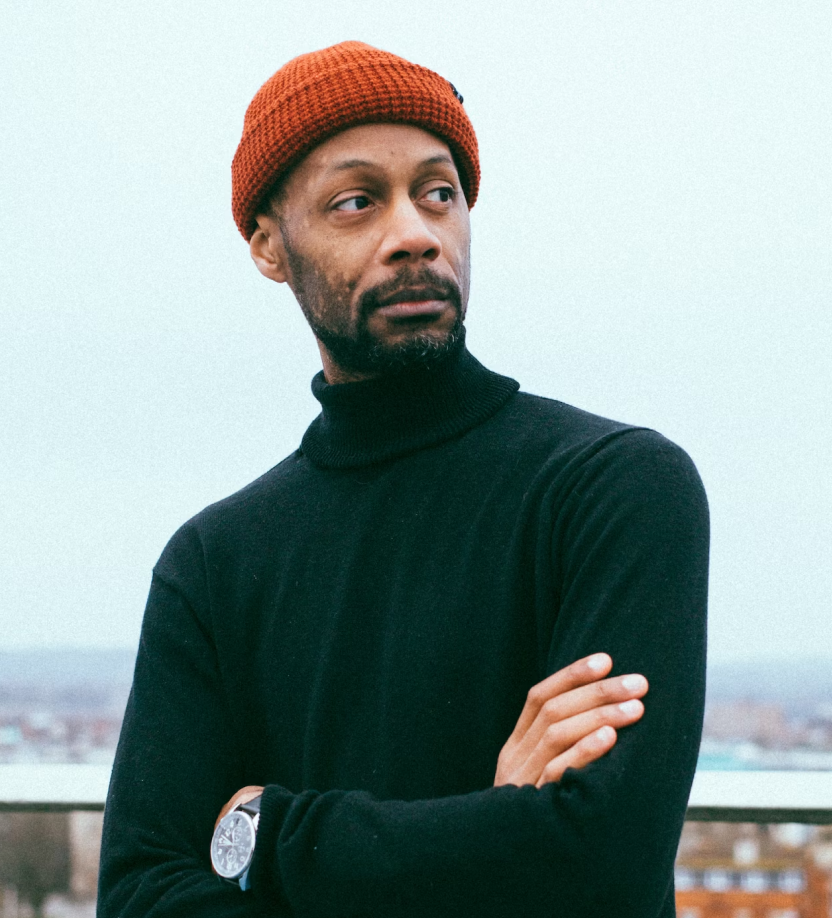
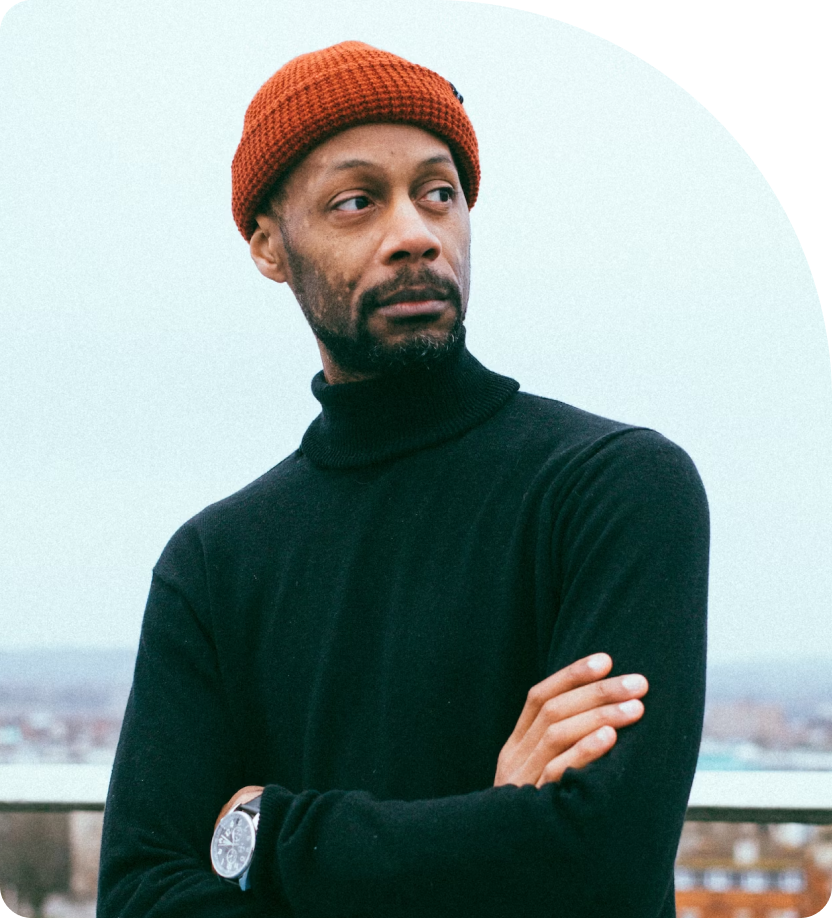
create mobile styles for header and about sections

diff --git a/src/index.html b/src/index.html
@@ -12,13 +12,17 @@
         rel="stylesheet">
 </head>
 
-<body class="font-dmsans">
-    <main>
-        <header>
-            <img class="w-10 h-10" src="./images/star.svg" alt="" />
-            <p>Michał Stryjski</p>
-            <p>Frontend developer</p>
-            <nav>
+<body class="font-dmsans bg-bg text-white">
+    <main class="px-4">
+        <header class="max-w-ms mx-auto py-6">
+            <div class="flex gap-4 items-center">
+                <img class="w-10 h-10" src="./images/star.svg" alt="" />
+                <div>
+                    <p class="text-xl font-bold text-accent">Michał Stryjski</p>
+                    <p class="text-white opacity-40 uppercase text-xs tracking-wider">Frontend developer</p>
+                </div>
+            </div>
+            <nav class="hidden">
                 <ul>
                     <li><a href="#about">About</a></li>
                     <li><a href="#skills">Skills</a></li>
@@ -28,66 +32,79 @@
                 </ul>
             </nav>
         </header>
-        <section id="about">
-            <h1>My name is Michał and I’m an aspiring Frontend developer.</h1>
-            <p>You might be interested in checking the list of my skills. Don’t forget to have a glimpse at my projects.
-                I’m looking for a new challenges so if you have one - contact me 😊</p>
-            <a href="#contact">Get in touch</a>
-            <a href="#skills">Get to know me</a>
-            <img src="./images/michal.png" class="w-44 h-44" alt="" />
+        <section id="about" class="max-w-ms mx-auto py-6 mb-20">
+            <img src="./images/michal.png" class="w-full mb-5" alt="" />
+            <h1 class="font-bold text-2xl tracking-tight mb-4">My name is Michał and I'm an aspiring <span
+                    class="text-accent">Frontend developer</span>.</h1>
+            <p class="text-gray-400 mb-8">You might be interested in checking the list of my <a href="#skills"
+                    class="text-white">skills</a>. Don't forget to have a glimpse at my <a href="#projects"
+                    class="text-white">projects</a>.
+                I'm looking for a new challenges so if you have one - <a href="#contact" class="text-white">contact
+                    me</a>😊</p>
+            <div class="flex flex-col items-start gap-4">
+                <a href="#contact"
+                    class="bg-accent text-bg flex gap-3 py-2  px-4 items-center font-bold text-xl rounded-[0.625rem]"><img
+                        src="./images/chat.svg" alt="chat icon">Get in touch</a>
+                <a href="#about"
+                    class="bg-bg text-accent flex gap-3 py-2  px-4 items-center font-bold text-xl rounded-[0.625rem] border-lightGray border-2"><img
+                        src="./images/person-icon.svg" alt="person icon">Get to know me</a>
+            </div>
         </section>
-        <section id="skills">
+        <section id="skills" class="max-w-ms mx-auto py-6">
             <h2>MY SKILSS</h2>
             <p>I've picked up some cool skills along the way, and I'm excited to share them with you. Check out what I
                 can do below!</p>
-        </section>
-        <article>
-            <img src="./images/triangle.svg" class="w-44 h-44" alt="">
-            <h3>Working knowledge</h3>
-            <ul>
-                <li>— Flexbox</li>
-                <li>— Markdown</li>
-                <li>— JS: Local storage</li>
-                <li>— Figma</li>
-                <li>— CSS grid
-                <li>— Forms</li>
-                <li>— JS: DOM manipulations</li>
-                <li>— SASS</li>
-                <li>— Semantic HTML5</li>
-            </ul>
-        </article>
-        <article>
-            <img src="./images/circle.svg" class="w-44 h-44" alt="">
-            <h3>Know something about</h3>
-            <ul>
-                <li>— JavaScript ES6 + features</li>
-                <li>— CSS animations</li>
-                <li> — Working with API</li>
-                <li>— NPM Scripts</li>
-                <li>— PWA</li>
-                <li> — Git</li>
-                <li> — Accessibility</li>
-            </ul>
-        </article>
-        <article>
-            <img src="./images/flower.svg" class="w-44 h-44" alt="">
-            <h3>Want to learn</h3>
-            <ul>
-                <li>— React</li>
-                <li> — Node</li>
-                <li> — Electron</li>
-                <li> — SSR</li>
-                <li> — TypeScript</li>
-                <li> — Gatsby</li>
-                <li> — WebSockets</li>
-            </ul>
-        </article>
-        <section id="projects">
-            <h2>Recent Projects</h2>
-            <p>Since diving into frontend development in 2023, I've brought a range of projects to life. Here's a snapshot of my accomplishments so far.</p>
             <article>
-                <h3>simple-editor</h3><p><img src="./images/smal-star.svg" alt="">27</p>
-                <p>Phasellus dolor. In dui magna, posuere eget, vestibulum et, tempor auctor, justo fringilla mauris sit amet nibh. Suspendisse pulvinar, augue ac venenatis condimentum, sem libero volutpat...</p>
+                <img src="./images/triangle.svg" class="w-44 h-44" alt="">
+                <h3>Working knowledge</h3>
+                <ul>
+                    <li>— Flexbox</li>
+                    <li>— Markdown</li>
+                    <li>— JS: Local storage</li>
+                    <li>— Figma</li>
+                    <li>— CSS grid
+                    <li>— Forms</li>
+                    <li>— JS: DOM manipulations</li>
+                    <li>— SASS</li>
+                    <li>— Semantic HTML5</li>
+                </ul>
+            </article>
+            <article>
+                <img src="./images/circle.svg" class="w-44 h-44" alt="">
+                <h3>Know something about</h3>
+                <ul>
+                    <li>— JavaScript ES6 + features</li>
+                    <li>— CSS animations</li>
+                    <li> — Working with API</li>
+                    <li>— NPM Scripts</li>
+                    <li>— PWA</li>
+                    <li> — Git</li>
+                    <li> — Accessibility</li>
+                </ul>
+            </article>
+            <article>
+                <img src="./images/flower.svg" class="w-44 h-44" alt="">
+                <h3>Want to learn</h3>
+                <ul>
+                    <li>— React</li>
+                    <li> — Node</li>
+                    <li> — Electron</li>
+                    <li> — SSR</li>
+                    <li> — TypeScript</li>
+                    <li> — Gatsby</li>
+                    <li> — WebSockets</li>
+                </ul>
+            </article>
+        </section>
+        <section id="projects" class="max-w-ms mx-auto py-6">
+            <h2>Recent Projects</h2>
+            <p>Since diving into frontend development in 2023, I've brought a range of projects to life. Here's a
+                snapshot of my accomplishments so far.</p>
+            <article>
+                <h3>simple-editor</h3>
+                <p><img src="./images/smal-star.svg" alt="">27</p>
+                <p>Phasellus dolor. In dui magna, posuere eget, vestibulum et, tempor auctor, justo fringilla mauris sit
+                    amet nibh. Suspendisse pulvinar, augue ac venenatis condimentum, sem libero volutpat...</p>
                 <ul>
                     <li>HTML</li>
                     <li>CSS</li>
@@ -97,31 +114,36 @@
                 <a href="#">Source demo</a>
             </article>
         </section>
-        <section>
+        <section class="max-w-ms mx-auto py-6">
             <h2>After hours</h2>
-            <p>Outside of my regular working hours, I delve into an array of activities and passions. Here's a glimpse into how I spend my after-hours.</p>
+            <p>Outside of my regular working hours, I delve into an array of activities and passions. Here's a glimpse
+                into how I spend my after-hours.</p>
             <article>
                 <img src="./images/electronics-music.png" alt="">
                 <h2>Electronic Music</h2>
-                <p>Outside of my regular working hours, I immerse myself in the pulsating rhythms and innovative sounds of electronic music</p>
+                <p>Outside of my regular working hours, I immerse myself in the pulsating rhythms and innovative sounds
+                    of electronic music</p>
             </article>
             <article>
                 <img src="./images/electronics-music.png" alt="">
                 <h2>Electronic Music</h2>
-                <p>Outside of my regular working hours, I immerse myself in the pulsating rhythms and innovative sounds of electronic music</p>
+                <p>Outside of my regular working hours, I immerse myself in the pulsating rhythms and innovative sounds
+                    of electronic music</p>
             </article>
             <article>
                 <img src="./images/electronics-music.png" alt="">
                 <h2>Electronic Music</h2>
-                <p>Outside of my regular working hours, I immerse myself in the pulsating rhythms and innovative sounds of electronic music</p>
+                <p>Outside of my regular working hours, I immerse myself in the pulsating rhythms and innovative sounds
+                    of electronic music</p>
             </article>
             <article>
                 <img src="./images/electronics-music.png" alt="">
                 <h2>Electronic Music</h2>
-                <p>Outside of my regular working hours, I immerse myself in the pulsating rhythms and innovative sounds of electronic music</p>
+                <p>Outside of my regular working hours, I immerse myself in the pulsating rhythms and innovative sounds
+                    of electronic music</p>
             </article>
         </section>
-        <section id="contact">
+        <section id="contact" class="max-w-ms mx-auto py-6">
             <h2>Let's work together</h2>
             <p>I'm open for new opportunities. <br> you have one for me we should talk!</p>
             <a href="mailto:stryjski.michal@gmail.com">stryjski.michal@gmail.com</a>

diff --git a/tailwind.config.js b/tailwind.config.js
@@ -7,14 +7,17 @@ module.exports = {
     extend: {
       colors: {
         bg: '#020916',
-        accent: 'CEFF7E',
+        accent: '#CEFF7E',
+        lightGray: '#1F2937',
       },
       fontFamily: {
         'dmsans': ['DM Sans', 'sans-serif'],
-    }
+      },
+      maxWidth:{
+        'ms':'82rem'
+      }
+    },
   },
-},
   plugins: [],
 }
 
- 
